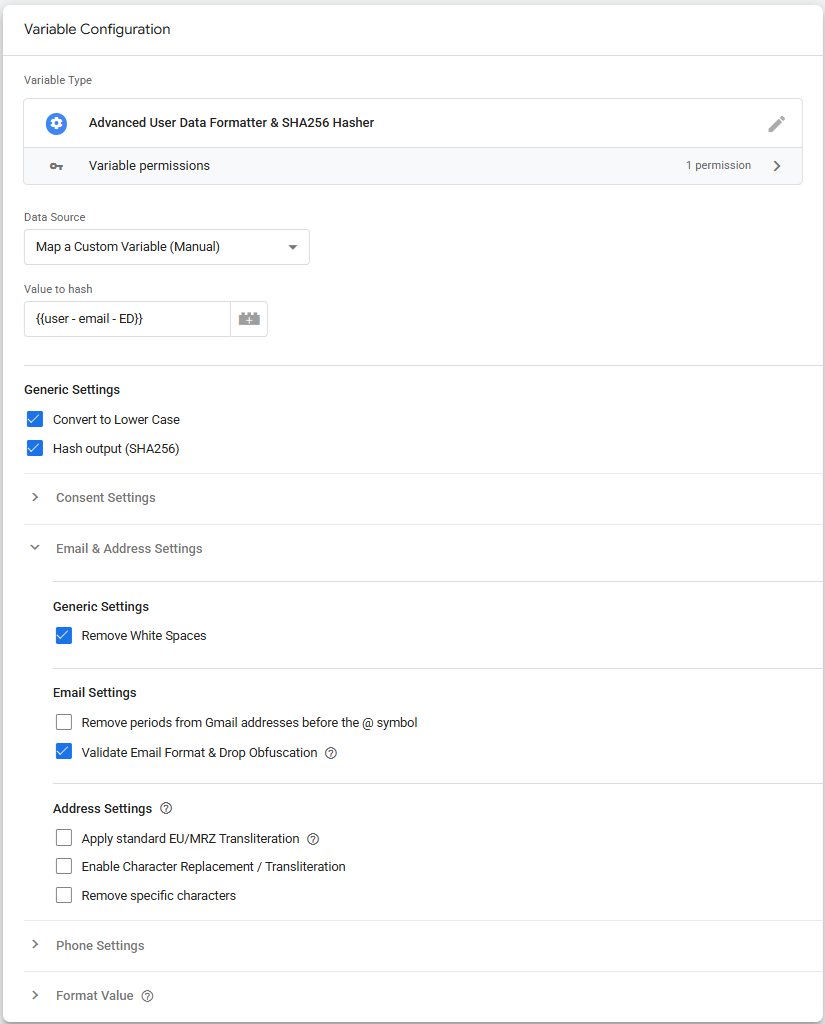
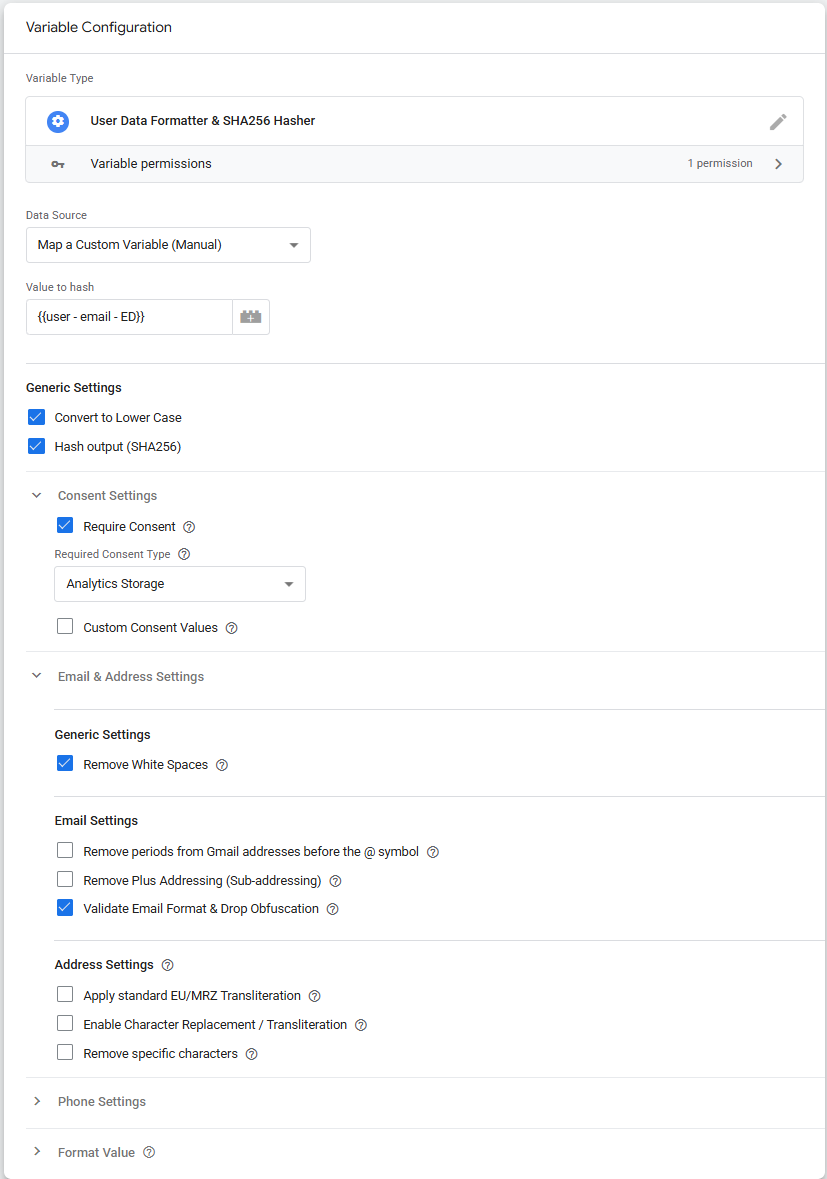
Email plus addressing (sub-addressing) removal functionality
Added email plus addressing (sub-addressing) removal functionality.

diff --git a/template.js b/template.js
@@ -172,6 +172,25 @@ if (data.toLowerCase) {
   toHash = toHash.toLowerCase();
 }
 
+// --- Remove Email Plus Addressing (Sub-addressing) ---
+if (data.removePlusAddressing) {
+  let emailParts = toHash.split('@');
+  
+  // Ensure it actually looks like an email with a local and domain part
+  if (emailParts.length === 2) {
+    let localPart = emailParts[0];
+    let domainPart = emailParts[1];
+    
+    let plusIndex = localPart.indexOf('+');
+    
+    // If a '+' exists in the local part, slice everything before it
+    if (plusIndex !== -1) {
+      localPart = localPart.slice(0, plusIndex);
+      toHash = localPart + '@' + domainPart;
+    }
+  }
+}
+
 if (data.removeGmailDots) {
   let emailParts = toHash.split('@');
   if (emailParts.length === 2) {

diff --git a/README.md b/README.md
@@ -21,17 +21,17 @@ When sending User Data to analytics or ad networks, you generally have three arc
 * **Ultimate Debuggability**: Because the data arrives at your server in clear text, you can use the SGTM Preview Mode to inspect the raw string, verify the formatting rules worked perfectly, and ensure the data is pristine before the template turns it into an irreversible hash.
 * **Marketing Agility**: Normalizing data (like stripping Gmail dots or translating ø to oe) could be difficult to enforce in backend databases. Doing it centrally on the server container allows analytics teams to adapt to new vendor rules instantly, without waiting on backend developer resources.
 
-## Features Overview
+### 🌟 Features Overview
 
-* **Opt-In Privacy & Consent Gate**: An optional fail-safe that, when enabled, natively parses Google Consent Mode v2 (x-ga-gcd and x-ga-gcs headers) to evaluate ad_storage or analytics_storage. Includes a custom CMP variable fallback. Once activated, if consent is missing, the template safely returns undefined, guaranteeing zero data leakage regardless of misconfigured tag triggers.
-* **Zero-Config Data Ingestion**: Optionally extract data directly from the standard GA4 user_data object (including nested array address fields), or map custom variables manually.
-* **Obfuscation & Sanity Detection**: Automatically detects front-end masked data (e.g., joh***@gmail.com) and structurally malformed strings, dropping them entirely to prevent useless hashes from polluting your ad network match rates.
-* **Text & Email Normalization**: Trims whitespace, strictly lowercases, and optionally strips alias dots from @gmail.com and @googlemail.com local addresses.
-* **MRZ Name Transliteration**: Hardcoded dictionary safely transliterates European characters (e.g., æ ➔ ae, ø ➔ oe, ß ➔ ss) down to the standard English a-z alphabet recommended by Meta.
-* **Advanced E.164 Phone Formatting**: Intelligently strips formatting symbols ( - . ), removes local leading zeros, and adds a default country code only when it's missing.
-* **Dynamic Country Routing**: Map ISO country codes from Event Data (like NO, SE, US) directly to their specific dialing prefixes (+47, +46, +1) for multi-national storefronts.
-* **Custom Replacement Engine**: Simple UI tables allow you to define custom character replacements or removals for specific edge cases without touching code.
-* **Sandbox-Safe Architecture**: Features built-in double-hash prevention (safely passes through pre-hashed CRM data). Outputs your choice of standard strings or secure SHA-256 Hex hashes.
+*   **🛡Opt-In Privacy & Consent Gate:** An optional fail-safe that, when enabled, natively parses Google Consent Mode v2 (`x-ga-gcd` and `x-ga-gcs` headers) to evaluate `ad_storage` or `analytics_storage`. Includes a custom CMP variable fallback. Once activated, if consent is missing, the template safely returns `undefined`, guaranteeing zero data leakage regardless of misconfigured tag triggers.
+*   **⚡ Zero-Config Data Ingestion:** Optionally extract data directly from the standard GA4 `user_data` object (including nested array address fields), or map custom variables manually.
+*   **🕵♂ Obfuscation & Sanity Detection:** Automatically detects front-end masked data (e.g., `joh***@gmail.com`) and structurally malformed strings, dropping them entirely to prevent useless hashes from polluting your ad network match rates.
+*   **📧 Text & Email Normalization:** Trims whitespace, strictly lowercases, and optionally strips alias dots from `@gmail.com` and `@googlemail.com` local addresses. It also features **Plus Addressing (Sub-addressing) removal**, instantly cleaning emails like `name+newsletter@gmail.com` down to `name@gmail.com` to prevent diluted match rates.
+*   **🌍 MRZ Name Transliteration:** Hardcoded dictionary safely transliterates European characters (e.g., `æ` ➔ `ae`, `ø` ➔ `oe`, `ß` ➔ `ss`) down to the standard English `a-z` alphabet required by platforms like Meta and TikTok.
+*   **📱 Advanced E.164 Phone Formatting:** Intelligently strips formatting symbols `( - . )`, removes local leading zeros, and adds a default country code only when it's missing. 
+*   **🗺 Dynamic Country Routing:** Map ISO country codes from Event Data (like `NO`, `SE`, `US`) directly to their specific dialing prefixes (`+47`, `+46`, `+1`) for multi-national storefronts.
+*   **🛠 Custom Replacement Engine:** Simple UI tables allow you to define custom character replacements or removals for specific edge cases without touching code.
+*   **🔒 Sandbox-Safe Architecture:** Features built-in Type Safety to prevent server crashes, double-hash prevention (safely passes through pre-hashed CRM data), and RE2-compliant array parsing that keeps server CPU costs minimal. Outputs your choice of standard strings or secure SHA-256 Hex hashes.
 
 ## How to Configure & Map Data
 
